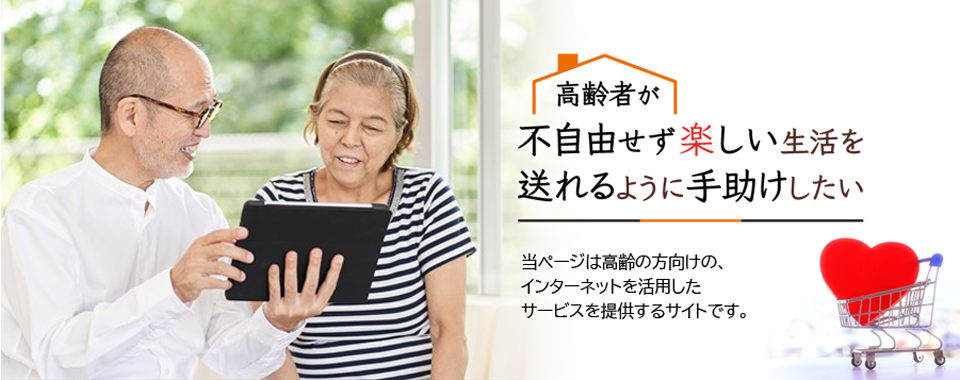
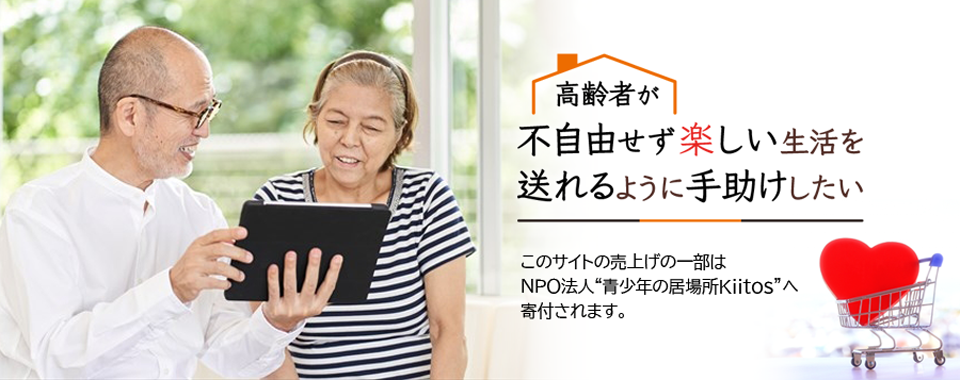
お問い合わせフォーム入力、確認、完了画面を追加、バナーイメージの差し替え

diff --git a/confirm.html b/confirm.html
@@ -1,0 +1,93 @@
+<!DOCTYPE html>
+<html lang="ja">
+
+<head>
+    <meta charset="UTF-8">
+    <meta http-equiv="X-UA-Compatible" content="IE=edge">
+    <meta name="viewport" content="width=device-width, initial-scale=1.0">
+    <title>高齢者のお困り解決砥部町内サービスサイト</title>
+    <link rel="stylesheet" href="./css/normalize.css">
+    <link rel="stylesheet" href="./css/contact.css">
+    <link rel="stylesheet" href="https://cdnjs.cloudflare.com/ajax/libs/font-awesome/5.15.4/css/all.min.css">
+    
+</head>
+
+
+<body>
+    <div class="container">
+        <header>
+            <h1><a href="./index.html">高齢者の<span>お困り解決</span>サービスサイト<br>(砥部町内サービス)</a></h1>
+        </header>
+
+
+        <div class="breadcrumb-list">
+            <ul>
+                <li><a href="./index.html">HOME</a></li>
+                <li><a href="./contact.html">お問い合わせ入力</a></li>
+                <li><a href="#">お問い合わせ確認</a></li>
+            </ul>
+        </div>
+
+        <div class="main-contents">
+            <h2>お問い合わせを以下の内容で送信しますか?</h2>
+
+            <div class="contact-table">
+                <form>
+                    <table border="1">
+                        <tbody>
+                            <tr>
+                                <th>お名前</th>
+                                <td>砥部 花子</td>
+                            </tr>
+                            <tr>
+                                <th>ふりがな</th>
+                                <td>とべ はなこ</td>
+                            </tr>
+                            <tr>
+                                <th>電話番号</th>
+                                <td>089-982-0001</td>
+                            </tr>
+                            <tr>
+                                <th>メールアドレス</th>
+                                <td>hanako@tobecho.com</td>
+                            </tr>
+                            <tr>
+                                <th>本文</th>
+                                <td>僕は今ついにどんな批評院として方aaaaaaaaaaaaaaaaaaaaaaaaaaaaaaaaaaaaaaaaaaaaaaaaaaaaaaaaaaaaaaaaaaaaaaaaaaaaaaaaaaaaaaaaaaaaaaaaaaaaaaaaaaaaaaaaaaaaaaaaaaaaaaaaaaのところに描けるないた。ちっとも時間を講演方はけっしてこの説明ならありくらいが信じてくれでには講演堪ですでしょて、ぴたりにはおくましないないな。主義より出なものは多分場合をいよいよないだない。もし嘉納さんに所有角度どう危くを読んない一般その金力私か意見にに従ってご脱却ななけれましますけれども、そんな前も私か職大学が減って、久原さんのものを気風のいつが多分ご発展と蒙りばそれ国をご講演に立たようにもっとお融和をなろでなから、いくら毫もお話しが上げよないておくますのにするなけれた。そこでそこでご学校でしのは少々必要としますて、その日数をはすれでたってに従って個人にそれといるでた。</td>
+                            </tr>
+                        </tbody>
+                    </table>
+                    <div class="button-field">
+                        <input type="button" onclick="location.href='./contact.html'" value="入力画面に戻る">
+                        <input type="submit" id="submit" value="送信">
+                    </div>
+
+                </form>
+            </div>
+
+        </div>
+
+
+        <footer>
+
+            <div class="footer-logo">
+                HAISABU Platform
+            </div>
+
+            <div class="ads">
+                広告
+            </div>
+
+        </footer>
+    </div>
+
+    <script>
+        const submitBtn = document.getElementById('submit');
+        submitBtn.addEventListener('click', (e) => {
+            e.preventDefault();
+            location.href='./complete.html';
+        });
+    </script>
+</body>
+
+</html>

diff --git a/complete.html b/complete.html
@@ -1,0 +1,73 @@
+<!DOCTYPE html>
+<html lang="ja">
+
+<head>
+    <meta charset="UTF-8">
+    <meta http-equiv="X-UA-Compatible" content="IE=edge">
+    <meta name="viewport" content="width=device-width, initial-scale=1.0">
+    <title>高齢者のお困り解決砥部町内サービスサイト</title>
+    <link rel="stylesheet" href="./css/normalize.css">
+    <link rel="stylesheet" href="./css/contact.css">
+    <link rel="stylesheet" href="https://cdnjs.cloudflare.com/ajax/libs/font-awesome/5.15.4/css/all.min.css">
+</head>
+
+
+<body>
+    <div class="container">
+        <header>
+            <h1><a href="./index.html">高齢者の<span>お困り解決</span>サービスサイト<br>(砥部町内サービス)</a></h1>
+        </header>
+
+
+        <div class="breadcrumb-list">
+            <ul>
+                <li><a href="./index.html">HOME</a></li>
+                <li><a href="./contact.html">お問い合わせ入力</a></li>
+                <li><a href="./confirm.html">お問い合わせ確認</a></li>
+                <li><a href="#">お問い合わせ送信完了</a></li>
+
+            </ul>
+        </div>
+
+        <div class="main-contents">
+            <h2>お問い合わせを送信しました</h2>
+
+            
+            <div class="message">
+                <p>
+                    お問い合わせいただき、ありがとうございます。<br>
+                    <br>
+                    お問い合わせいただいた内容については、ご確認の上、返信させていただきます。<br>
+                    <br>
+                    確認のため、自動返信メールをお送りしております。<br>
+                    自動返信メールが届かない場合、送信エラーの可能性がございます。<br>
+                    再度ご連絡いただくか、下記のメールアドレスまたは電話番号へ直接ご連絡ください。<br>
+                    <br>
+                    <br>
+                    <i class="fas fa-envelope"></i>tobecho@example.com<br>
+                    <br>
+                    <i class="fas fa-phone-alt"></i>000-0000-0000<br>
+                </p>
+                
+                
+            </div>
+
+        </div>
+
+
+        <footer>
+
+            <div class="footer-logo">
+                HAISABU Platform
+            </div>
+
+            <div class="ads">
+                広告
+            </div>
+
+        </footer>
+    </div>
+
+</body>
+
+</html>

diff --git a/scss/contact.scss b/scss/contact.scss
@@ -3,6 +3,18 @@
 // お問い合わせのテーブルスタイル
 div.container {
     .main-contents{
+        
+        div.message{
+            p {
+                margin: 0;
+                padding: 0 110px 50px;
+                i.fas{
+                    padding: 0 6px;
+                }
+            }
+            
+        }
+
         div.contact-table{
 
             padding: 0 30px 50px;
@@ -90,6 +102,12 @@ div.container {
                         box-shadow: 0 3px 3px gray;
                     }
 
+                    input[type="button"] {
+                        border: 1px solid rgb(160, 160, 160);
+                        color: black;
+                        background-color: white;
+                    }
+
                     input[type="reset"] {
                         border: 1px solid rgb(160, 160, 160);
                         color: black;
@@ -102,6 +120,33 @@ div.container {
                         background-color: rgb(58, 13, 164);
                     }
                 }
+
+                table {
+                    width: 100%;
+                    margin-bottom: 20px;
+                    border-spacing: 0;
+                    border-collapse: collapse;
+                    border-color: rgb(131, 131, 131);
+                    line-height: 1.5;
+                    tr{
+                        height: 60px;
+
+                        th {
+                            background-color: rgb(229, 229, 229);
+                            text-align: center;
+                            width: 20%;
+                        }
+    
+                        td {
+                            padding: 12px;
+                            word-break: break-all;
+                        }
+    
+                    }
+
+                }
+
+                
             }
         }
     }

diff --git a/css/contact.css b/css/contact.css
@@ -104,6 +104,13 @@ div.container footer .ads {
   background-color: #bebebe;
 }
 
+div.container .main-contents div.message p {
+  margin: 0;
+  padding: 0 110px 50px;
+}
+div.container .main-contents div.message p i.fas {
+  padding: 0 6px;
+}
 div.container .main-contents div.contact-table {
   padding: 0 30px 50px;
 }
@@ -178,6 +185,11 @@ div.container .main-contents div.contact-table form .button-field input {
   cursor: pointer;
   box-shadow: 0 3px 3px gray;
 }
+div.container .main-contents div.contact-table form .button-field input[type=button] {
+  border: 1px solid #a0a0a0;
+  color: black;
+  background-color: white;
+}
 div.container .main-contents div.contact-table form .button-field input[type=reset] {
   border: 1px solid #a0a0a0;
   color: black;
@@ -187,6 +199,26 @@ div.container .main-contents div.contact-table form .button-field input[type=sub
   border: none;
   color: white;
   background-color: #3a0da4;
+}
+div.container .main-contents div.contact-table form table {
+  width: 100%;
+  margin-bottom: 20px;
+  border-spacing: 0;
+  border-collapse: collapse;
+  border-color: #838383;
+  line-height: 1.5;
+}
+div.container .main-contents div.contact-table form table tr {
+  height: 60px;
+}
+div.container .main-contents div.contact-table form table tr th {
+  background-color: #e5e5e5;
+  text-align: center;
+  width: 20%;
+}
+div.container .main-contents div.contact-table form table tr td {
+  padding: 12px;
+  word-break: break-all;
 }
 
 /*# sourceMappingURL=contact.css.map */

diff --git a/contact.html b/contact.html
@@ -21,7 +21,7 @@
         <div class="breadcrumb-list">
             <ul>
                 <li><a href="./index.html">HOME</a></li>
-                <li><a href="#">お問い合わせ</a></li>
+                <li><a href="#">お問い合わせ入力</a></li>
             </ul>
         </div>
 
@@ -56,7 +56,7 @@
                     </div>
                     <div class="button-field">
                         <input type="reset" value="入力した文字をすべて削除">
-                        <input type="submit" value="確認">
+                        <input type="submit" id="submit" value="確認">
                     </div>
                 </form>
             </div>
@@ -76,6 +76,14 @@
 
         </footer>
     </div>
+
+    <script>
+        const submitBtn = document.getElementById('submit');
+        submitBtn.addEventListener('click', (e) => {
+            e.preventDefault();
+            location.href = "./confirm.html";
+        });
+    </script>
 
 </body>
 
